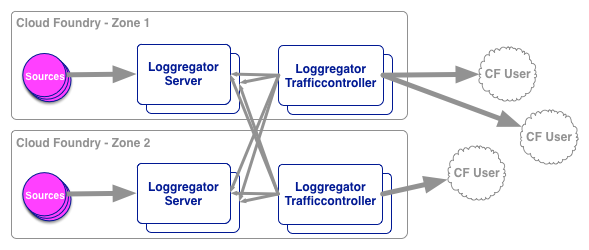
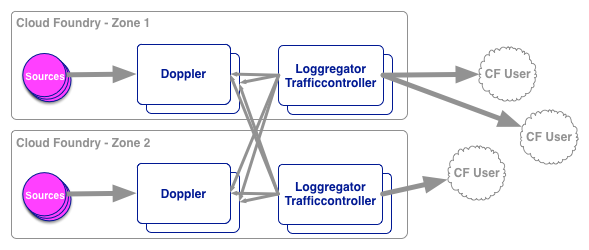
Update the README to reflect Doppler instead of Loggregator server.
[#86469190]

Changed region(s): [[0.2445, 0.728, 0.3667, 0.84], [0.2445, 0.252, 0.3667, 0.364]]

diff --git a/README.md b/README.md
@@ -1,4 +1,4 @@
-# Loggregator 
+# Loggregator
 
 [![Build Status](https://travis-ci.org/cloudfoundry/loggregator.svg?branch=develop)](https://travis-ci.org/cloudfoundry/loggregator)  [![Coverage Status](https://coveralls.io/repos/cloudfoundry/loggregator/badge.png?branch=develop)](https://coveralls.io/r/cloudfoundry/loggregator?branch=develop)
    
@@ -47,7 +47,7 @@ Loggregator is composed of:
 
 * **Sources**: Logging agents that run on the Cloud Foundry components.
 * **Metron**: Metron agents are co-located with sources. They collect logs and forward them to:
-* **Loggregator Server (a.k.a. Doppler)**: Responsible for gathering logs from the **Metron agents**, storing them in temporary buffers, and forwarding logs to 3rd party syslog drains.
+* **Doppler**: Responsible for gathering logs from the **Metron agents**, storing them in temporary buffers, and forwarding logs to 3rd party syslog drains.
 * **Traffic Controller**: Handles client requests for logs. Gathers and collates messages from all Doppler servers, and provides external API and message translation (as needed for legacy APIs).
 
 Source agents emit the logging data as [protocol-buffers](https://code.google.com/p/protobuf/), and the data stays in that format throughout the system.
@@ -58,21 +58,21 @@ In a redundant CloudFoundry setup, Loggregator can be configured to survive zone
 
 ![Loggregator Diagram](docs/loggregator_multizone.png)
 
-The role of Metron is to take traffic from the various emitter sources (dea, dea-logging-agent router, etc) and route that traffic to one or more loggregator servers. In the current config we route this traffic to the loggregator servers in the same az. The traffic is randomly distributed across loggregator servers.
+The role of Metron is to take traffic from the various emitter sources (dea, dea-logging-agent, router, etc) and route that traffic to one or more dopplers. In the current config we route this traffic to the dopplers in the same az. The traffic is randomly distributed across dopplers.
 
-The role of Traffic Controller is to handle inbound HTTP and WebSocket requests for log data. It does this by proxying the request to all loggregator servers (regardless of AZ). Since an application can be deployed to multiple AZs, its logs can potentially end up on loggregator servers in multiple AZs. This is why the traffic controller will attempt to connect to loggregator servers in each AZ and will collate the data into a single stream for the web socket client.
+The role of Traffic Controller is to handle inbound HTTP and WebSocket requests for log data. It does this by proxying the request to all dopplers (regardless of AZ). Since an application can be deployed to multiple AZs, its logs can potentially end up on dopplers in multiple AZs. This is why the traffic controller will attempt to connect to dopplers in each AZ and will collate the data into a single stream for the web socket client.
 
 The traffic controller itself is stateless; an incoming request can be handled by any instance in any AZ.
 
-Traffic controllers also exposes a `firehose` web socket endpoint. Connecting to this endpoint establishes connections to all loggregator servers, and streams logs and metrics for all applications and CF components.
+Traffic controllers also exposes a `firehose` web socket endpoint. Connecting to this endpoint establishes connections to all dopplers, and streams logs and metrics for all applications and CF components.
 
 ### Emitting Messages from other Cloud Foundry components
 
-Cloud Foundry developers can easily add source clients to new CF components that emit messages to the loggregator server.  Currently, there are libraries for [Go](https://github.com/cloudfoundry/dropsonde/) and [Ruby](https://github.com/cloudfoundry/loggregator_emitter). For usage information, look at their respective READMEs.
+Cloud Foundry developers can easily add source clients to new CF components that emit messages to the doppler.  Currently, there are libraries for [Go](https://github.com/cloudfoundry/dropsonde/) and [Ruby](https://github.com/cloudfoundry/loggregator_emitter). For usage information, look at their respective READMEs.
 
 ### Deploying via BOSH
 
-Below are example snippets for deploying the DEA Logging Agent (source), Loggregator Server, and Loggregator Traffic Controller via BOSH.
+Below are example snippets for deploying the DEA Logging Agent (source), Doppler, and Loggregator Traffic Controller via BOSH.
 
 ```yaml
 jobs:
@@ -291,7 +291,7 @@ ginkgo -r
 ### Debugging
 
 
-Loggregator will dump information about the running goroutines to stdout if sent a `USR1` signal.
+Doppler will dump information about the running goroutines to stdout if sent a `USR1` signal.
 
 ```
 goroutine 1 [running]:
